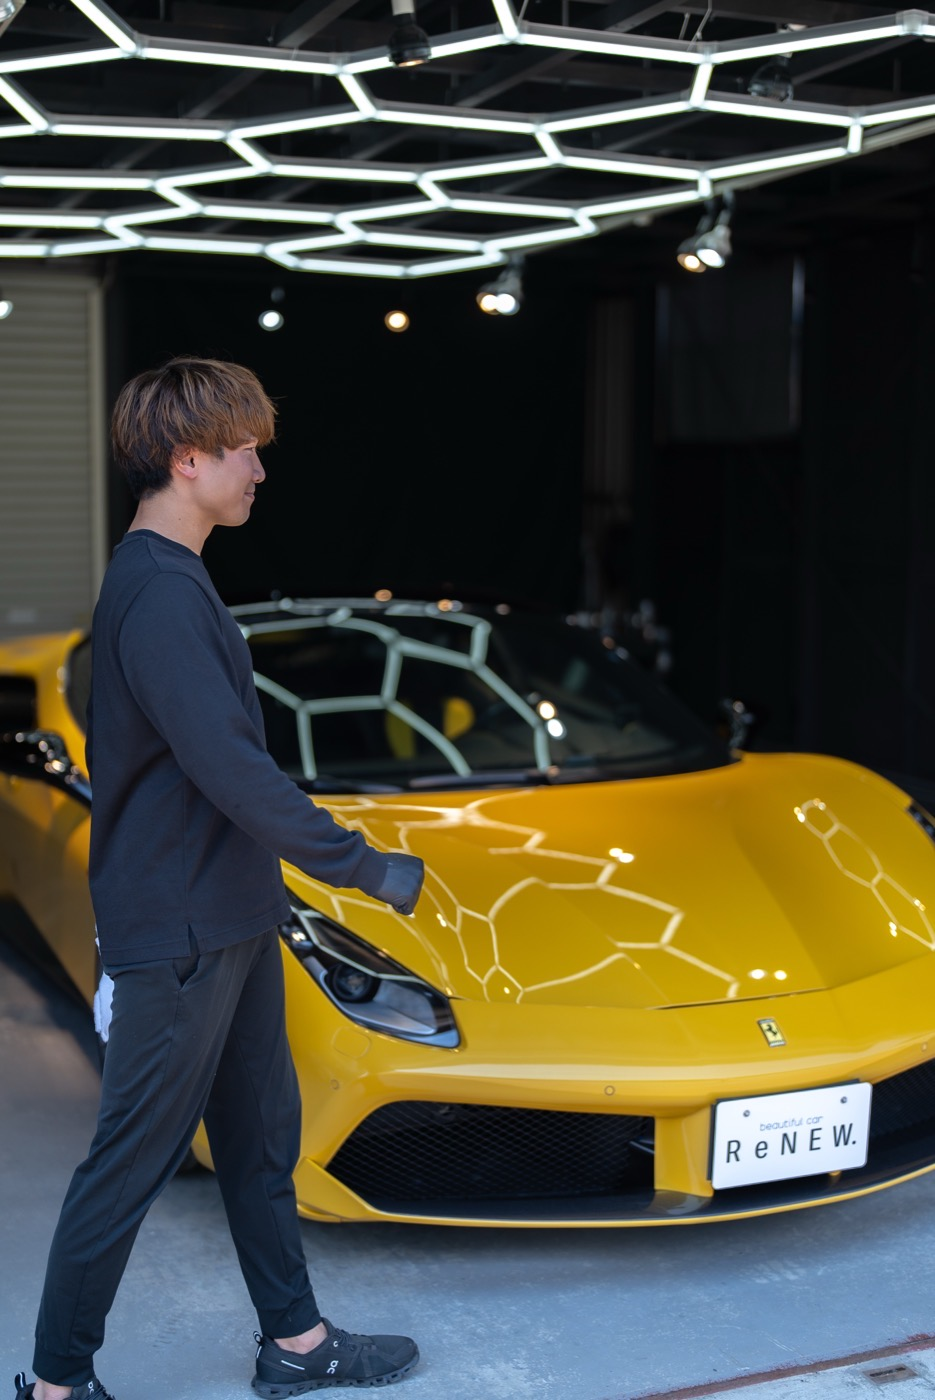
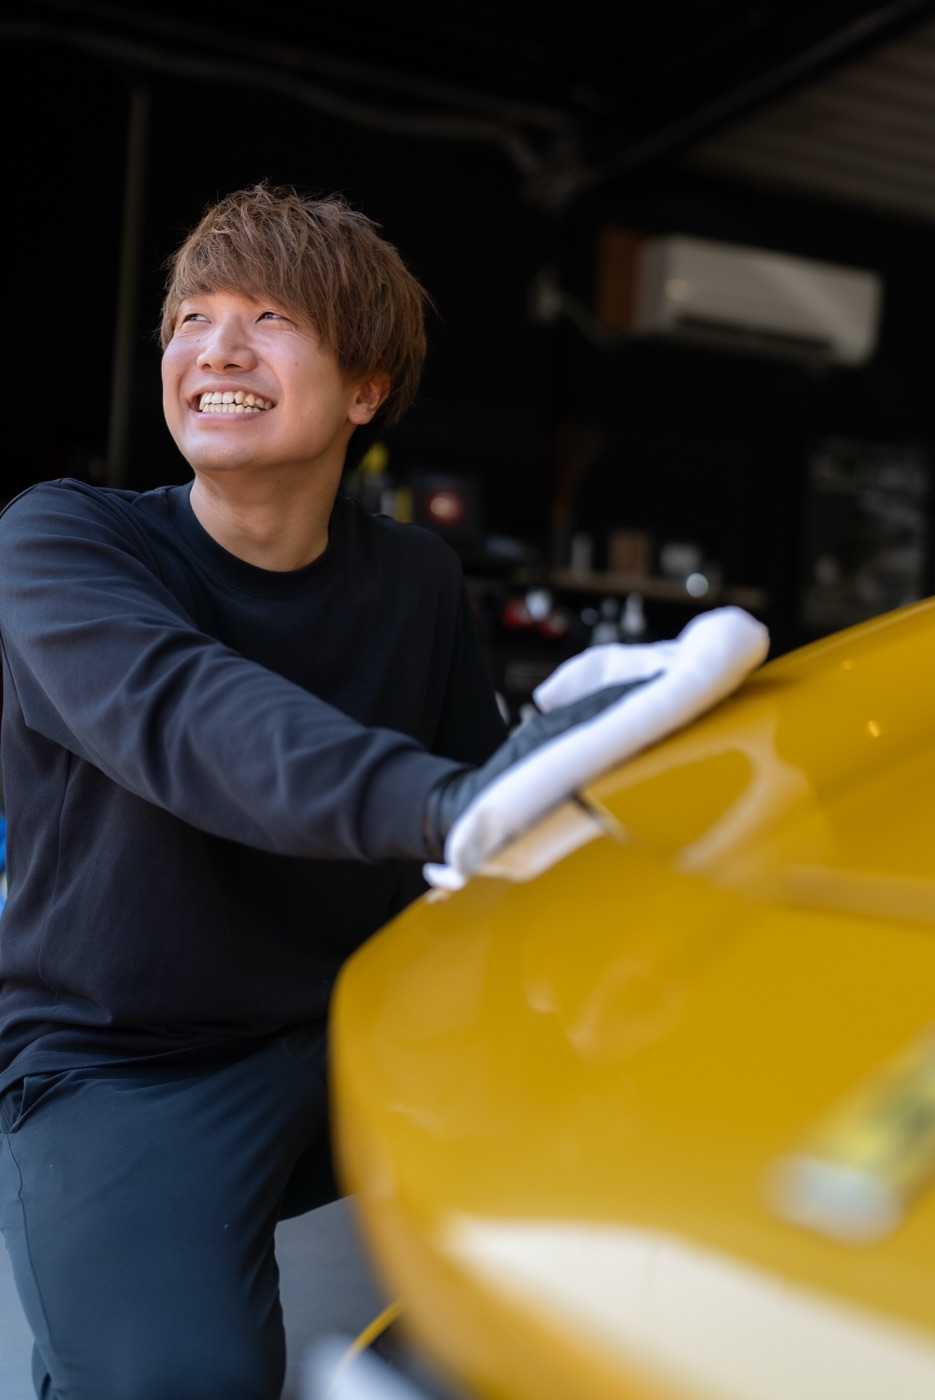
CONCEPT代表メッセージ欄の写真を差し替え

diff --git a/src/build.py b/src/build.py
@@ -208,7 +208,7 @@ PHOTOS = [
     ("10-booth", "照明を備えた施工ブース", 476, 265, "50% 50%"),
     ("11-tools", "ポリッシャーやクロスなどの施工道具", 476, 265, "50% 50%"),
     ("12-studio-work", "ヘキサゴンのライトが映り込むイエローのフェラーリを仕上げるスタッフ", 2400, 1603, "55% 50%"),
-    ("13-staff-car", "ReNEW.のナンバープレートを付けたイエローのフェラーリとスタッフ", 935, 1400, "50% 60%"),
+    ("13-staff-car", "イエローのフェラーリを笑顔で磨き上げるスタッフ", 935, 1400, "50% 35%"),
     ("14-wipe", "愛車を丁寧に拭き上げるスタッフ", 935, 1400, "50% 45%"),
     ("15-counseling", "イエローのフェラーリを前に施工内容を確認するスタッフ", 935, 1400, "50% 40%"),
     ("16-wheel-check", "ホイールの状態を確認するスタッフ", 935, 1400, "55% 50%"),
